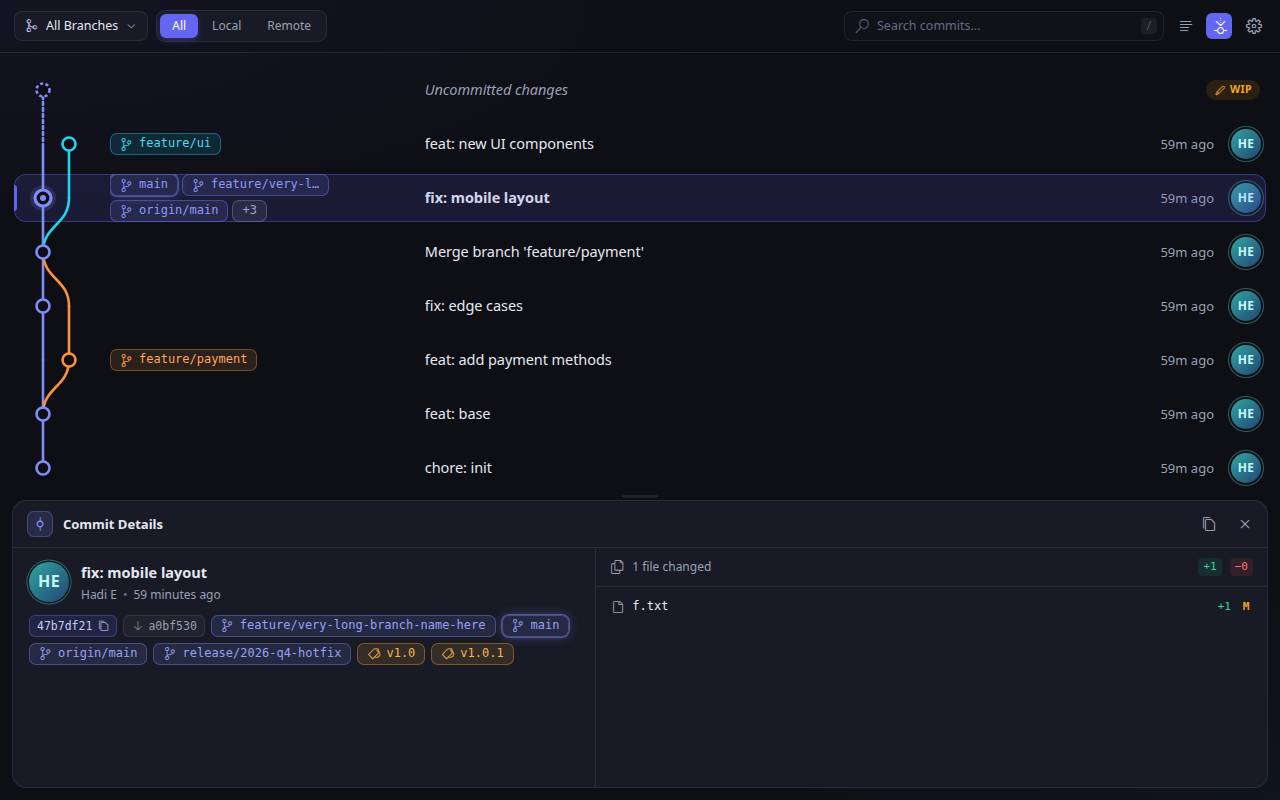
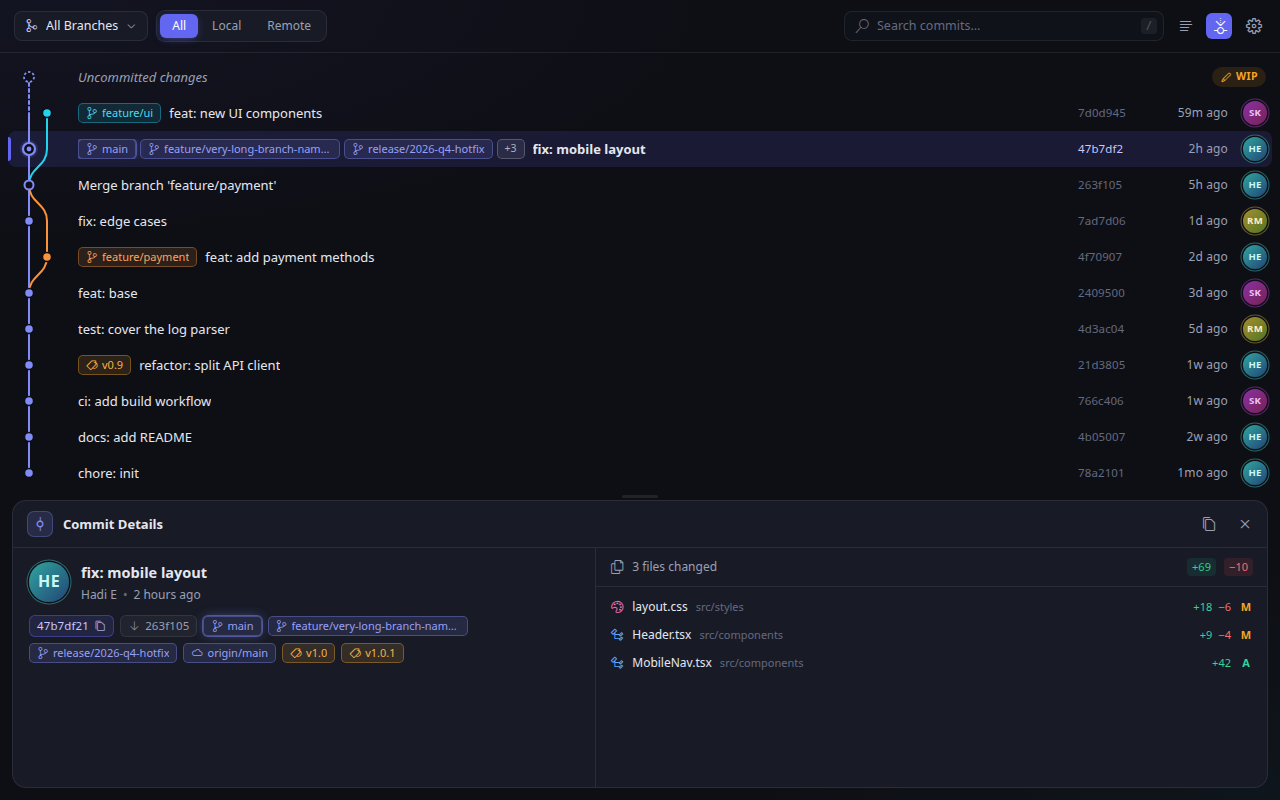
docs(readme): show the three row densities, Comfortable first
- Hero screenshot uses Comfortable, the default density.
- New Row density section: Comfortable large, Compact and Spacious
  side by side.

diff --git a/README.md b/README.md
@@ -12,7 +12,7 @@ Do your daily Git work without opening a terminal.
 [![VS Code](https://img.shields.io/badge/VS%20Code-%E2%89%A51.90-22d3ee?style=flat-square&logo=visualstudiocode&logoColor=white)](https://code.visualstudio.com/)
 [![License: MIT](https://img.shields.io/badge/license-MIT-4ade80?style=flat-square)](LICENSE)
 
-<img src="docs/screenshots/graph.png" alt="Git Graph with commit details" width="100%" />
+<img src="docs/screenshots/graph.png" alt="Git Graph in Comfortable density with commit details" width="100%" />
 
 </div>
 
@@ -36,11 +36,23 @@ Do your daily Git work without opening a terminal.
 ### Git Graph
 
 - **Branch topology** drawn as smooth, colored lanes. HEAD, merge commits and uncommitted changes each have their own node style.
-- **Three row densities.** *Compact*, *Comfortable* and *Spacious*. Spacious has large ring nodes and a separate column for branch badges.
+- **Three row densities.** *Comfortable* (default), *Compact* and *Spacious*. See [Row density](#row-density).
 - **Filters and search.** Show all, local or remote branches, or a single branch. Search by message, author, email, hash or ref, then jump between matches with <kbd>Enter</kbd>.
 - **Commit details.** A resizable panel shows the message, parents and refs, and every changed file with its line counts. Click a file to open it in the VS Code diff editor.
 - **Context menus.** Right-click a commit to check it out, create a branch or tag, cherry-pick, revert or reset (soft, mixed or hard). Right-click a branch badge to check it out, merge, rebase, push, rename or delete it.
 - **Large histories.** The list is virtualized and loads more commits as you scroll.
+
+### Row density
+
+Choose how tightly the commit list is packed. Change it from the **View options** button (☰) at the top right of the graph, the ⚙ settings modal, or the `gitWorkspace.graph.density` setting.
+
+**Comfortable** (default): 36px rows. A balance between readability and the number of commits on screen.
+
+<img src="docs/screenshots/density-comfortable.png" alt="Commit list in Comfortable density" width="100%" />
+
+| **Compact**: 28px rows, the most commits on screen | **Spacious**: 54px rows, large nodes and a separate branch column |
+|---|---|
+| ![Commit list in Compact density](docs/screenshots/density-compact.png) | ![Commit list in Spacious density](docs/screenshots/density-spacious.png) |
 
 ### Source Control sidebar
 
